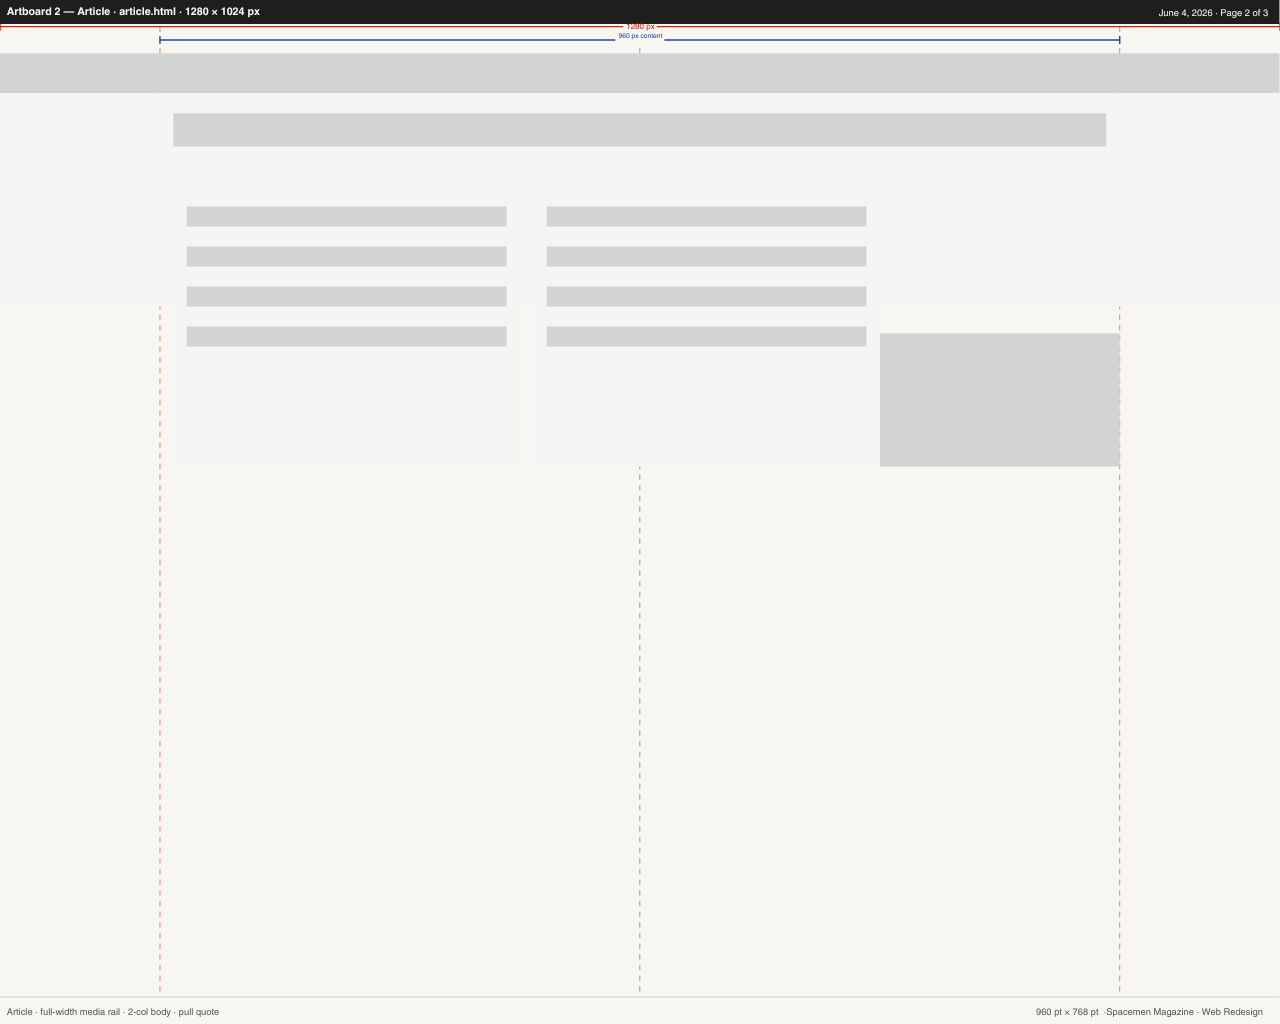
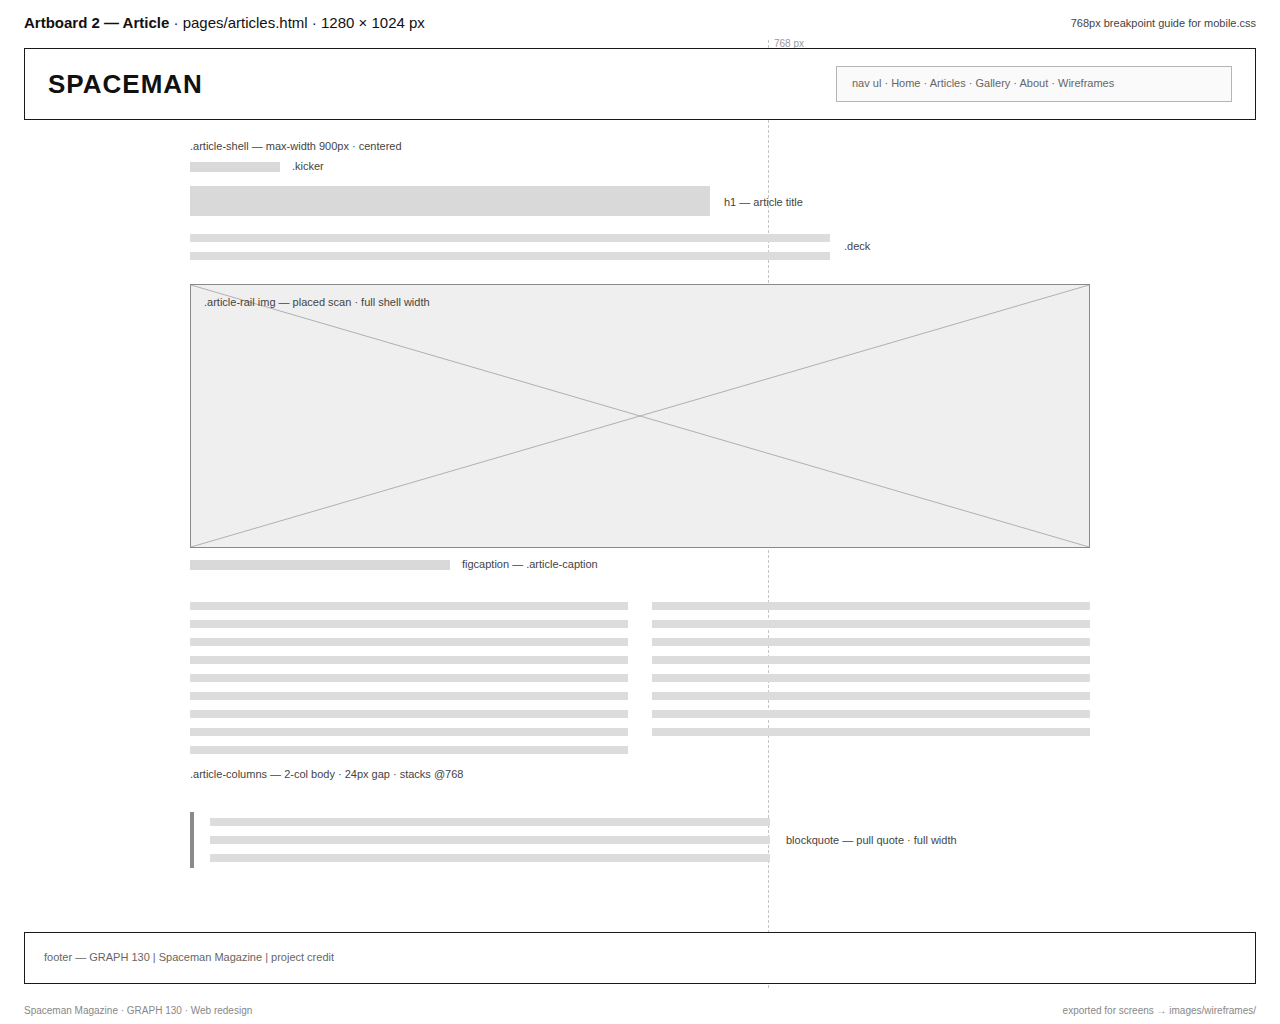
Redraw the three wireframe artboards: clean, annotated, true to the site
- Replace the sparse exported artboards with redrawn 1280x1024 wireframes
  in the style of the P45-P47 layout studies: title annotation, 768px
  mobile.css guide line, labeled selectors, placed-scan frames, and
  spacing notes - monochrome and unornamented
- Each artboard documents the real page structure (Home hero/feature/cards,
  Article shell/media rail/2-col/pull quote, Gallery 4-col grid with
  caption overlays) including responsive spans at 1024px and 768px
- Keep the same exported filenames so all page references stay valid
- Store the artboard sources in assets/artboards/ for future edits
- Refresh the Wireframes page deck and captions to match

diff --git a/assets/artboards/artboard-3-gallery.html b/assets/artboards/artboard-3-gallery.html
@@ -1,0 +1,97 @@
+<!doctype html>
+<html lang="en">
+<head>
+<meta charset="utf-8" />
+<title>Artboard 3 — Gallery</title>
+<style>
+  * { margin: 0; padding: 0; box-sizing: border-box; }
+  html, body { overflow: hidden; }
+  body {
+    width: 1280px; height: 1024px; position: relative;
+    background: #ffffff; color: #111;
+    font-family: Arial, Helvetica, sans-serif;
+  }
+  .titlebar { position: absolute; top: 14px; left: 24px; font-size: 15px; font-weight: bold; }
+  .titlebar span { font-weight: normal; }
+  .bp-note { position: absolute; top: 17px; right: 24px; font-size: 11px; color: #444; }
+  .guide { position: absolute; left: 768px; top: 40px; bottom: 36px; border-left: 1px dashed #c4c4c4; }
+  .guide i { position: absolute; top: -2px; left: 5px; font-style: normal; font-size: 10px; color: #999; white-space: nowrap; }
+  .frame { position: absolute; border: 1px solid #1a1a1a; background: #fff; }
+  .zone { position: absolute; border: 1px solid #b5b5b5; background: #fafafa; }
+  .bar { position: absolute; background: #d9d9d9; }
+  .stub { position: absolute; background: repeating-linear-gradient(to bottom, #dcdcdc 0 8px, transparent 8px 18px); }
+  .imgbox { position: absolute; border: 1px solid #8a8a8a; background: #efefef; }
+  .imgbox svg { position: absolute; inset: 0; width: 100%; height: 100%; }
+  .imgbox .cap { position: absolute; left: 0; right: 0; bottom: 0; height: 26px; background: #d9d9d9; border-top: 1px solid #bdbdbd; }
+  .imgbox .cap span { position: absolute; left: 10px; top: 7px; font-size: 10px; color: #555; }
+  .label { position: absolute; font-size: 11px; color: #444; }
+  .label.in { color: #666; }
+  .brand { position: absolute; font-size: 26px; font-weight: bold; letter-spacing: 1px; }
+  .meta { position: absolute; bottom: 8px; font-size: 10px; color: #888; }
+</style>
+</head>
+<body>
+  <p class="titlebar">Artboard 3 — Gallery <span>· pages/gallery.html · 1280 × 1024 px</span></p>
+  <p class="bp-note">768px breakpoint guide for mobile.css</p>
+  <div class="guide"><i>768 px</i></div>
+
+  <!-- header -->
+  <div class="frame" style="left:24px; top:48px; width:1232px; height:72px;"></div>
+  <p class="brand" style="left:48px; top:69px;">SPACEMAN</p>
+  <div class="zone" style="left:836px; top:66px; width:396px; height:36px;"></div>
+  <p class="label in" style="left:852px; top:77px;">nav ul · Home · Articles · Gallery · About · Wireframes</p>
+
+  <!-- title block -->
+  <div class="bar" style="left:190px; top:148px; width:70px; height:10px;"></div>
+  <p class="label" style="left:272px; top:146px;">.kicker</p>
+  <div class="bar" style="left:190px; top:172px; width:360px; height:26px;"></div>
+  <p class="label" style="left:564px; top:180px;">h1 — gallery title</p>
+  <div class="stub" style="left:190px; top:214px; width:600px; height:26px;"></div>
+
+  <!-- 4-column grid, 8 items -->
+  <div class="imgbox" style="left:44px; top:268px; width:280px; height:210px;">
+    <svg><line x1="0" y1="0" x2="100%" y2="100%" stroke="#b0b0b0"/><line x1="100%" y1="0" x2="0" y2="100%" stroke="#b0b0b0"/></svg>
+    <div class="cap"><span>figcaption overlay</span></div>
+  </div>
+  <div class="imgbox" style="left:348px; top:268px; width:280px; height:210px;">
+    <svg><line x1="0" y1="0" x2="100%" y2="100%" stroke="#b0b0b0"/><line x1="100%" y1="0" x2="0" y2="100%" stroke="#b0b0b0"/></svg>
+    <div class="cap"><span>figcaption overlay</span></div>
+  </div>
+  <div class="imgbox" style="left:652px; top:268px; width:280px; height:210px;">
+    <svg><line x1="0" y1="0" x2="100%" y2="100%" stroke="#b0b0b0"/><line x1="100%" y1="0" x2="0" y2="100%" stroke="#b0b0b0"/></svg>
+    <div class="cap"><span>figcaption overlay</span></div>
+  </div>
+  <div class="imgbox" style="left:956px; top:268px; width:280px; height:210px;">
+    <svg><line x1="0" y1="0" x2="100%" y2="100%" stroke="#b0b0b0"/><line x1="100%" y1="0" x2="0" y2="100%" stroke="#b0b0b0"/></svg>
+    <div class="cap"><span>figcaption overlay</span></div>
+  </div>
+
+  <div class="imgbox" style="left:44px; top:502px; width:280px; height:210px;">
+    <svg><line x1="0" y1="0" x2="100%" y2="100%" stroke="#b0b0b0"/><line x1="100%" y1="0" x2="0" y2="100%" stroke="#b0b0b0"/></svg>
+    <div class="cap"><span>figcaption overlay</span></div>
+  </div>
+  <div class="imgbox" style="left:348px; top:502px; width:280px; height:210px;">
+    <svg><line x1="0" y1="0" x2="100%" y2="100%" stroke="#b0b0b0"/><line x1="100%" y1="0" x2="0" y2="100%" stroke="#b0b0b0"/></svg>
+    <div class="cap"><span>figcaption overlay</span></div>
+  </div>
+  <div class="imgbox" style="left:652px; top:502px; width:280px; height:210px;">
+    <svg><line x1="0" y1="0" x2="100%" y2="100%" stroke="#b0b0b0"/><line x1="100%" y1="0" x2="0" y2="100%" stroke="#b0b0b0"/></svg>
+    <div class="cap"><span>figcaption overlay</span></div>
+  </div>
+  <div class="imgbox" style="left:956px; top:502px; width:280px; height:210px;">
+    <svg><line x1="0" y1="0" x2="100%" y2="100%" stroke="#b0b0b0"/><line x1="100%" y1="0" x2="0" y2="100%" stroke="#b0b0b0"/></svg>
+    <div class="cap"><span>figcaption overlay</span></div>
+  </div>
+
+  <p class="label" style="left:44px; top:736px;">.gallery-grid — 4-col · 24px gutters · 3-col @1024 · 2-col @768</p>
+  <p class="label" style="left:44px; top:758px;">.gallery-item — scanned still, 4:3 crop · caption overlay pinned to base</p>
+  <p class="label" style="left:330px; top:250px;">↔ 24px</p>
+
+  <!-- footer -->
+  <div class="frame" style="left:24px; top:932px; width:1232px; height:52px;"></div>
+  <p class="label in" style="left:44px; top:951px;">footer — GRAPH 130 | Spaceman Magazine | project credit</p>
+
+  <p class="meta" style="left:24px;">Spaceman Magazine · GRAPH 130 · Web redesign</p>
+  <p class="meta" style="right:24px;">exported for screens → images/wireframes/</p>
+</body>
+</html>

diff --git a/assets/artboards/artboard-1-home.html b/assets/artboards/artboard-1-home.html
@@ -1,0 +1,82 @@
+<!doctype html>
+<html lang="en">
+<head>
+<meta charset="utf-8" />
+<title>Artboard 1 — Home</title>
+<style>
+  * { margin: 0; padding: 0; box-sizing: border-box; }
+  html, body { overflow: hidden; }
+  body {
+    width: 1280px; height: 1024px; position: relative;
+    background: #ffffff; color: #111;
+    font-family: Arial, Helvetica, sans-serif;
+  }
+  .titlebar { position: absolute; top: 14px; left: 24px; font-size: 15px; font-weight: bold; }
+  .titlebar span { font-weight: normal; }
+  .bp-note { position: absolute; top: 17px; right: 24px; font-size: 11px; color: #444; }
+  .guide { position: absolute; left: 768px; top: 40px; bottom: 36px; border-left: 1px dashed #c4c4c4; }
+  .guide i { position: absolute; top: -2px; left: 5px; font-style: normal; font-size: 10px; color: #999; white-space: nowrap; }
+  .frame { position: absolute; border: 1px solid #1a1a1a; background: #fff; }
+  .zone { position: absolute; border: 1px solid #b5b5b5; background: #fafafa; }
+  .bar { position: absolute; background: #d9d9d9; }
+  .stub { position: absolute; background: repeating-linear-gradient(to bottom, #dcdcdc 0 8px, transparent 8px 18px); }
+  .imgbox { position: absolute; border: 1px solid #8a8a8a; background: #efefef; }
+  .imgbox svg { position: absolute; inset: 0; width: 100%; height: 100%; }
+  .label { position: absolute; font-size: 11px; color: #444; }
+  .label.in { color: #666; }
+  .brand { position: absolute; font-size: 26px; font-weight: bold; letter-spacing: 1px; }
+  .meta { position: absolute; bottom: 8px; font-size: 10px; color: #888; }
+</style>
+</head>
+<body>
+  <p class="titlebar">Artboard 1 — Home <span>· index.html · 1280 × 1024 px</span></p>
+  <p class="bp-note">768px breakpoint guide for mobile.css</p>
+  <div class="guide"><i>768 px</i></div>
+
+  <!-- header -->
+  <div class="frame" style="left:24px; top:48px; width:1232px; height:72px;"></div>
+  <p class="brand" style="left:48px; top:69px;">SPACEMAN</p>
+  <div class="zone" style="left:836px; top:66px; width:396px; height:36px;"></div>
+  <p class="label in" style="left:852px; top:77px;">nav ul · Home · Articles · Gallery · About · Wireframes</p>
+
+  <!-- hero -->
+  <div class="zone" style="left:24px; top:136px; width:1232px; height:168px;"></div>
+  <p class="label" style="left:40px; top:148px;">.hero — min-height 70vh (cropped)</p>
+  <div class="bar" style="left:44px; top:226px; width:420px; height:26px;"></div>
+  <p class="label" style="left:480px; top:233px;">.hero-content h2</p>
+  <div class="bar" style="left:44px; top:264px; width:300px; height:10px;"></div>
+
+  <!-- feature image -->
+  <div class="imgbox" style="left:44px; top:330px; width:1192px; height:296px;">
+    <svg><line x1="0" y1="0" x2="100%" y2="100%" stroke="#b0b0b0"/><line x1="100%" y1="0" x2="0" y2="100%" stroke="#b0b0b0"/></svg>
+  </div>
+  <p class="label" style="left:58px; top:342px;">.feature img — placed scan · span 12</p>
+
+  <!-- feature text -->
+  <div class="bar" style="left:44px; top:642px; width:360px; height:22px;"></div>
+  <div class="stub" style="left:44px; top:678px; width:540px; height:8px;"></div>
+
+  <!-- cards -->
+  <p class="label" style="left:430px; top:700px;">↔ 24px gutter</p>
+  <div class="zone" style="left:44px; top:716px; width:381px; height:160px;"></div>
+  <div class="bar" style="left:64px; top:738px; width:140px; height:14px;"></div>
+  <div class="stub" style="left:64px; top:768px; width:330px; height:44px;"></div>
+
+  <div class="zone" style="left:449px; top:716px; width:381px; height:160px;"></div>
+  <div class="bar" style="left:469px; top:738px; width:140px; height:14px;"></div>
+  <div class="stub" style="left:469px; top:768px; width:330px; height:44px;"></div>
+
+  <div class="zone" style="left:854px; top:716px; width:381px; height:160px;"></div>
+  <div class="bar" style="left:874px; top:738px; width:140px; height:14px;"></div>
+  <div class="stub" style="left:874px; top:768px; width:330px; height:44px;"></div>
+
+  <p class="label" style="left:44px; top:890px;">.card — span 4 · span 6 @1024 · span 12 @768 · 12-col grid · 24px gutters</p>
+
+  <!-- footer -->
+  <div class="frame" style="left:24px; top:932px; width:1232px; height:52px;"></div>
+  <p class="label in" style="left:44px; top:951px;">footer — GRAPH 130 | Spaceman Magazine | project credit</p>
+
+  <p class="meta" style="left:24px;">Spaceman Magazine · GRAPH 130 · Web redesign</p>
+  <p class="meta" style="right:24px;">exported for screens → images/wireframes/</p>
+</body>
+</html>

diff --git a/assets/artboards/artboard-2-article.html b/assets/artboards/artboard-2-article.html
@@ -1,0 +1,81 @@
+<!doctype html>
+<html lang="en">
+<head>
+<meta charset="utf-8" />
+<title>Artboard 2 — Article</title>
+<style>
+  * { margin: 0; padding: 0; box-sizing: border-box; }
+  html, body { overflow: hidden; }
+  body {
+    width: 1280px; height: 1024px; position: relative;
+    background: #ffffff; color: #111;
+    font-family: Arial, Helvetica, sans-serif;
+  }
+  .titlebar { position: absolute; top: 14px; left: 24px; font-size: 15px; font-weight: bold; }
+  .titlebar span { font-weight: normal; }
+  .bp-note { position: absolute; top: 17px; right: 24px; font-size: 11px; color: #444; }
+  .guide { position: absolute; left: 768px; top: 40px; bottom: 36px; border-left: 1px dashed #c4c4c4; }
+  .guide i { position: absolute; top: -2px; left: 5px; font-style: normal; font-size: 10px; color: #999; white-space: nowrap; }
+  .frame { position: absolute; border: 1px solid #1a1a1a; background: #fff; }
+  .zone { position: absolute; border: 1px solid #b5b5b5; background: #fafafa; }
+  .bar { position: absolute; background: #d9d9d9; }
+  .stub { position: absolute; background: repeating-linear-gradient(to bottom, #dcdcdc 0 8px, transparent 8px 18px); }
+  .imgbox { position: absolute; border: 1px solid #8a8a8a; background: #efefef; }
+  .imgbox svg { position: absolute; inset: 0; width: 100%; height: 100%; }
+  .label { position: absolute; font-size: 11px; color: #444; }
+  .label.in { color: #666; }
+  .brand { position: absolute; font-size: 26px; font-weight: bold; letter-spacing: 1px; }
+  .meta { position: absolute; bottom: 8px; font-size: 10px; color: #888; }
+  .quote-edge { position: absolute; width: 4px; background: #8a8a8a; }
+</style>
+</head>
+<body>
+  <p class="titlebar">Artboard 2 — Article <span>· pages/articles.html · 1280 × 1024 px</span></p>
+  <p class="bp-note">768px breakpoint guide for mobile.css</p>
+  <div class="guide"><i>768 px</i></div>
+
+  <!-- header -->
+  <div class="frame" style="left:24px; top:48px; width:1232px; height:72px;"></div>
+  <p class="brand" style="left:48px; top:69px;">SPACEMAN</p>
+  <div class="zone" style="left:836px; top:66px; width:396px; height:36px;"></div>
+  <p class="label in" style="left:852px; top:77px;">nav ul · Home · Articles · Gallery · About · Wireframes</p>
+
+  <!-- article shell -->
+  <p class="label" style="left:190px; top:140px;">.article-shell — max-width 900px · centered</p>
+
+  <div class="bar" style="left:190px; top:162px; width:90px; height:10px;"></div>
+  <p class="label" style="left:292px; top:160px;">.kicker</p>
+
+  <div class="bar" style="left:190px; top:186px; width:520px; height:30px;"></div>
+  <p class="label" style="left:724px; top:196px;">h1 — article title</p>
+
+  <div class="stub" style="left:190px; top:234px; width:640px; height:26px;"></div>
+  <p class="label" style="left:844px; top:240px;">.deck</p>
+
+  <!-- media rail -->
+  <div class="imgbox" style="left:190px; top:284px; width:900px; height:264px;">
+    <svg><line x1="0" y1="0" x2="100%" y2="100%" stroke="#b0b0b0"/><line x1="100%" y1="0" x2="0" y2="100%" stroke="#b0b0b0"/></svg>
+  </div>
+  <p class="label" style="left:204px; top:296px;">.article-rail img — placed scan · full shell width</p>
+
+  <div class="bar" style="left:190px; top:560px; width:260px; height:10px;"></div>
+  <p class="label" style="left:462px; top:558px;">figcaption — .article-caption</p>
+
+  <!-- two-column body -->
+  <div class="stub" style="left:190px; top:602px; width:438px; height:152px;"></div>
+  <div class="stub" style="left:652px; top:602px; width:438px; height:134px;"></div>
+  <p class="label" style="left:190px; top:768px;">.article-columns — 2-col body · 24px gap · stacks @768</p>
+
+  <!-- pull quote -->
+  <div class="quote-edge" style="left:190px; top:812px; height:56px;"></div>
+  <div class="stub" style="left:210px; top:818px; width:560px; height:44px;"></div>
+  <p class="label" style="left:786px; top:834px;">blockquote — pull quote · full width</p>
+
+  <!-- footer -->
+  <div class="frame" style="left:24px; top:932px; width:1232px; height:52px;"></div>
+  <p class="label in" style="left:44px; top:951px;">footer — GRAPH 130 | Spaceman Magazine | project credit</p>
+
+  <p class="meta" style="left:24px;">Spaceman Magazine · GRAPH 130 · Web redesign</p>
+  <p class="meta" style="right:24px;">exported for screens → images/wireframes/</p>
+</body>
+</html>

diff --git a/pages/wireframes.html b/pages/wireframes.html
@@ -33,9 +33,10 @@
           <h1>Wireframes</h1>
           <p class="deck">
             Three 1280 × 1024 artboards — Home, Article, and Gallery — with
-            header, navigation, and footer placed on each, a 960px content
-            guide, and notes for the 768px breakpoint handled by mobile.css.
-            Exported for screens into <code>images/wireframes/</code>.
+            header, navigation, and footer placed on each, labeled structure
+            and spacing notes, and the 768px breakpoint guide handled by
+            mobile.css. Exported for screens into
+            <code>images/wireframes/</code>.
           </p>
         </header>
 
@@ -59,8 +60,8 @@
                 alt="Artboard 2 — Article page wireframe: full-width media rail, two-column body, and pull quote at 1280 by 1024" />
             </a>
             <figcaption>
-              Artboard 2 — Article · article.html · full-width media rail ·
-              2-col body · pull quote
+              Artboard 2 — Article · pages/articles.html · full-width media
+              rail · 2-col body · pull quote
             </figcaption>
           </figure>
 
@@ -71,8 +72,8 @@
                 alt="Artboard 3 — Gallery page wireframe: four-column image grid with caption overlays at 1280 by 1024" />
             </a>
             <figcaption>
-              Artboard 3 — Gallery · gallery.html · 4-column image grid ·
-              caption overlays
+              Artboard 3 — Gallery · pages/gallery.html · 4-column image
+              grid · caption overlays
             </figcaption>
           </figure>
         </section>
